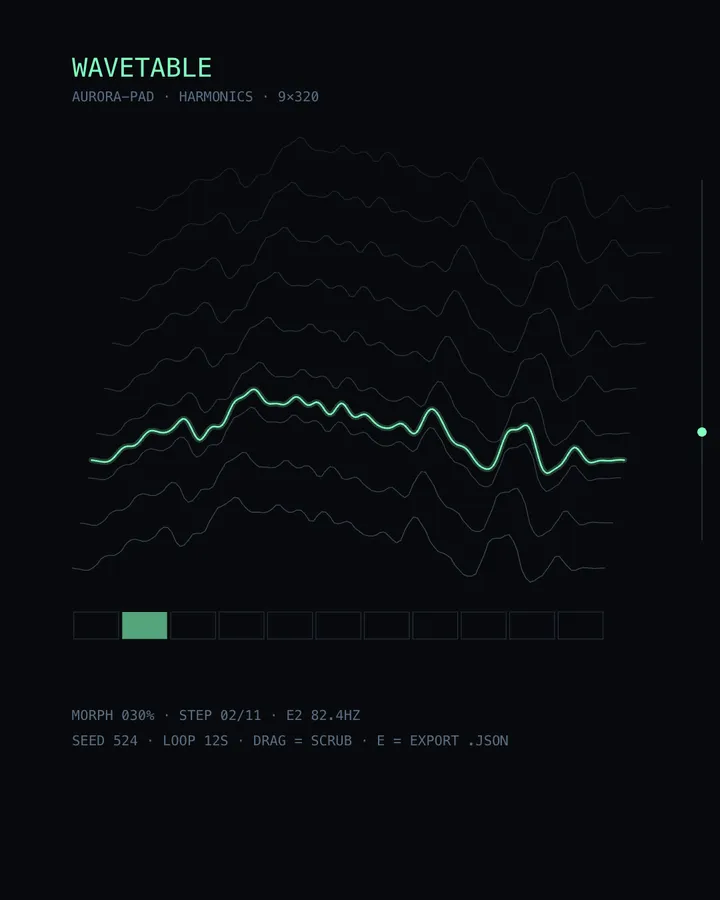
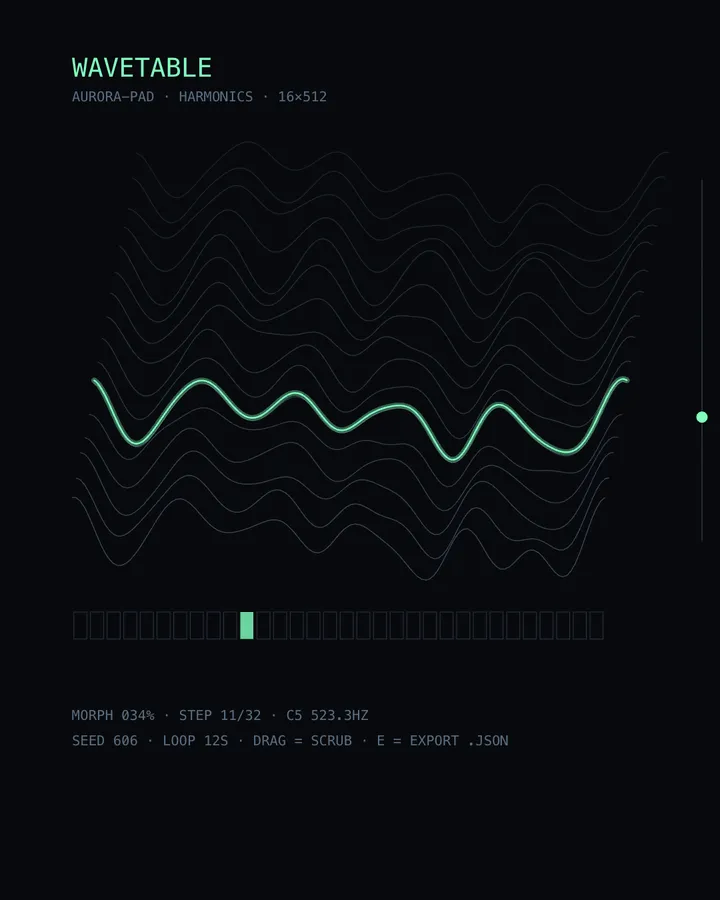
wavetable-v1/thumbnail

diff --git a/src/sketches/p5/sketches/audio/wavetable-v1/options.ts b/src/sketches/p5/sketches/audio/wavetable-v1/options.ts
@@ -117,32 +117,32 @@ const MORPH_MODE_OPTIONS = [
 export const formValues = {
   wavetable: {
     mode: "harmonics",
-    frames: 9,
-    frameSize: 320,
-    harmonics: 26,
-    brightness: 0.74,
-    character: 0.1,
-    seed: 524,
+    frames: 16,
+    frameSize: 512,
+    harmonics: 10,
+    brightness: 1,
+    character: 0.91,
+    seed: 606,
     name: "aurora-pad"
   },
   notes: {
-    root: "D2",
-    scale: "majorPentatonic",
-    octaves: 2,
-    steps: 11,
+    root: "E3",
+    scale: "wholeTone",
+    octaves: 3,
+    steps: 32,
     pattern: "up",
-    gate: 0.35
+    gate: 0.8
   },
   audio: {
     enabled: true,
-    volume: 0.37,
-    attack: 0.273,
-    release: 0.27,
-    drive: 0.27
+    volume: 0.4,
+    attack: 0.125,
+    release: 0.83,
+    drive: 0.49
   },
   morph: {
-    mode: "static",
-    start: 0.3,
+    mode: "sweep",
+    start: 0.03,
     end: 1
   },
   io: {
